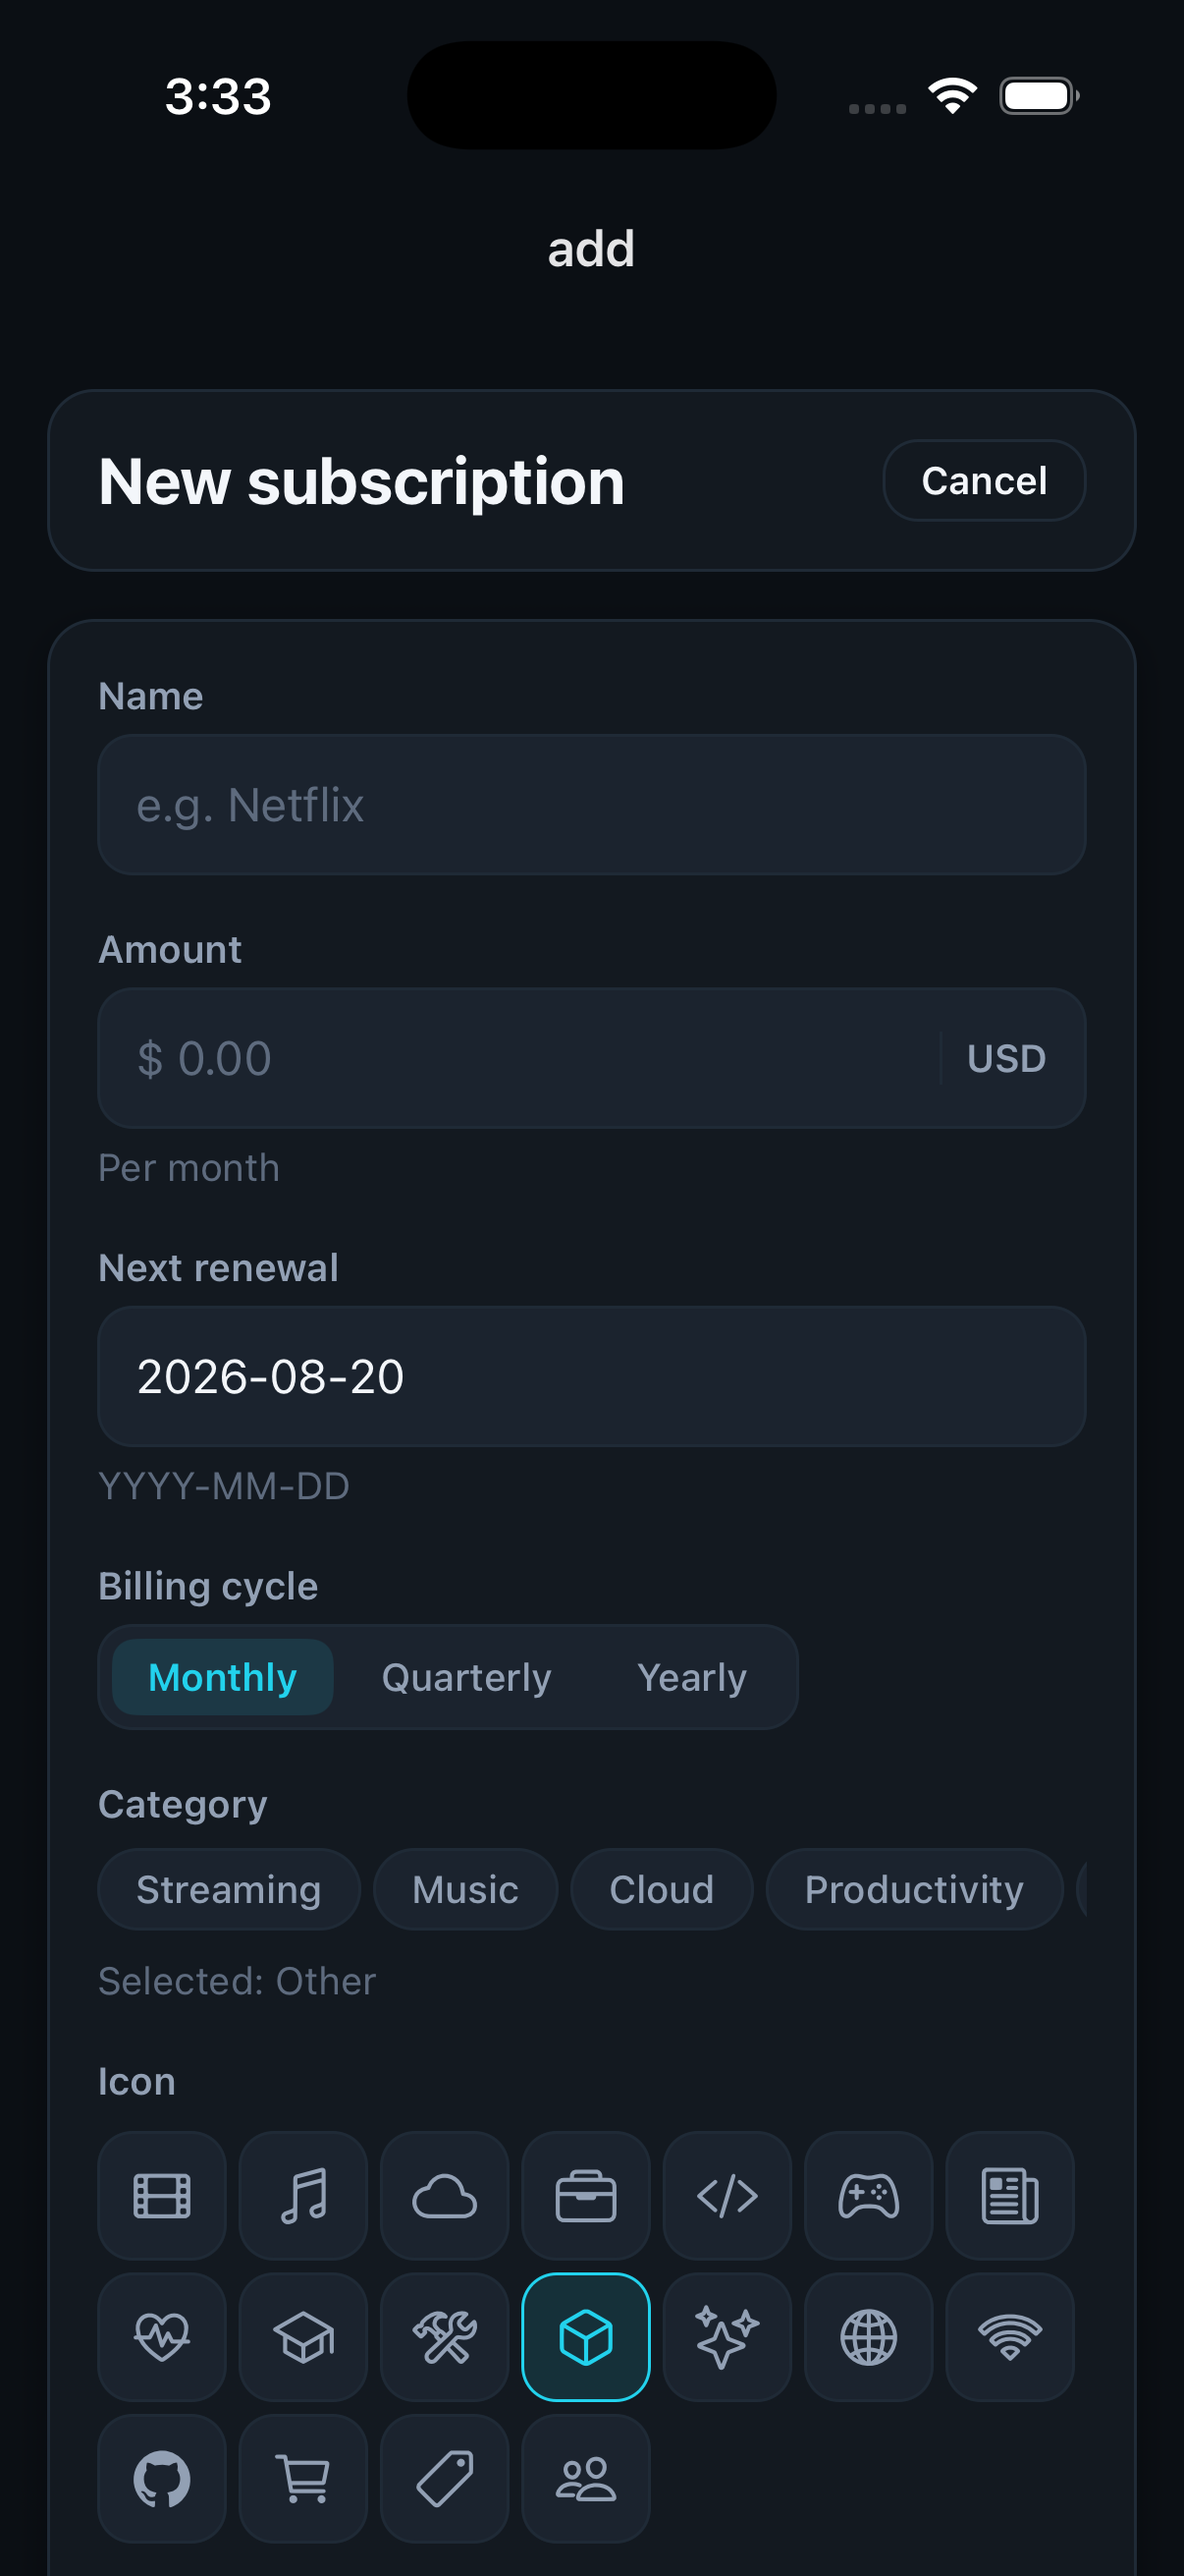
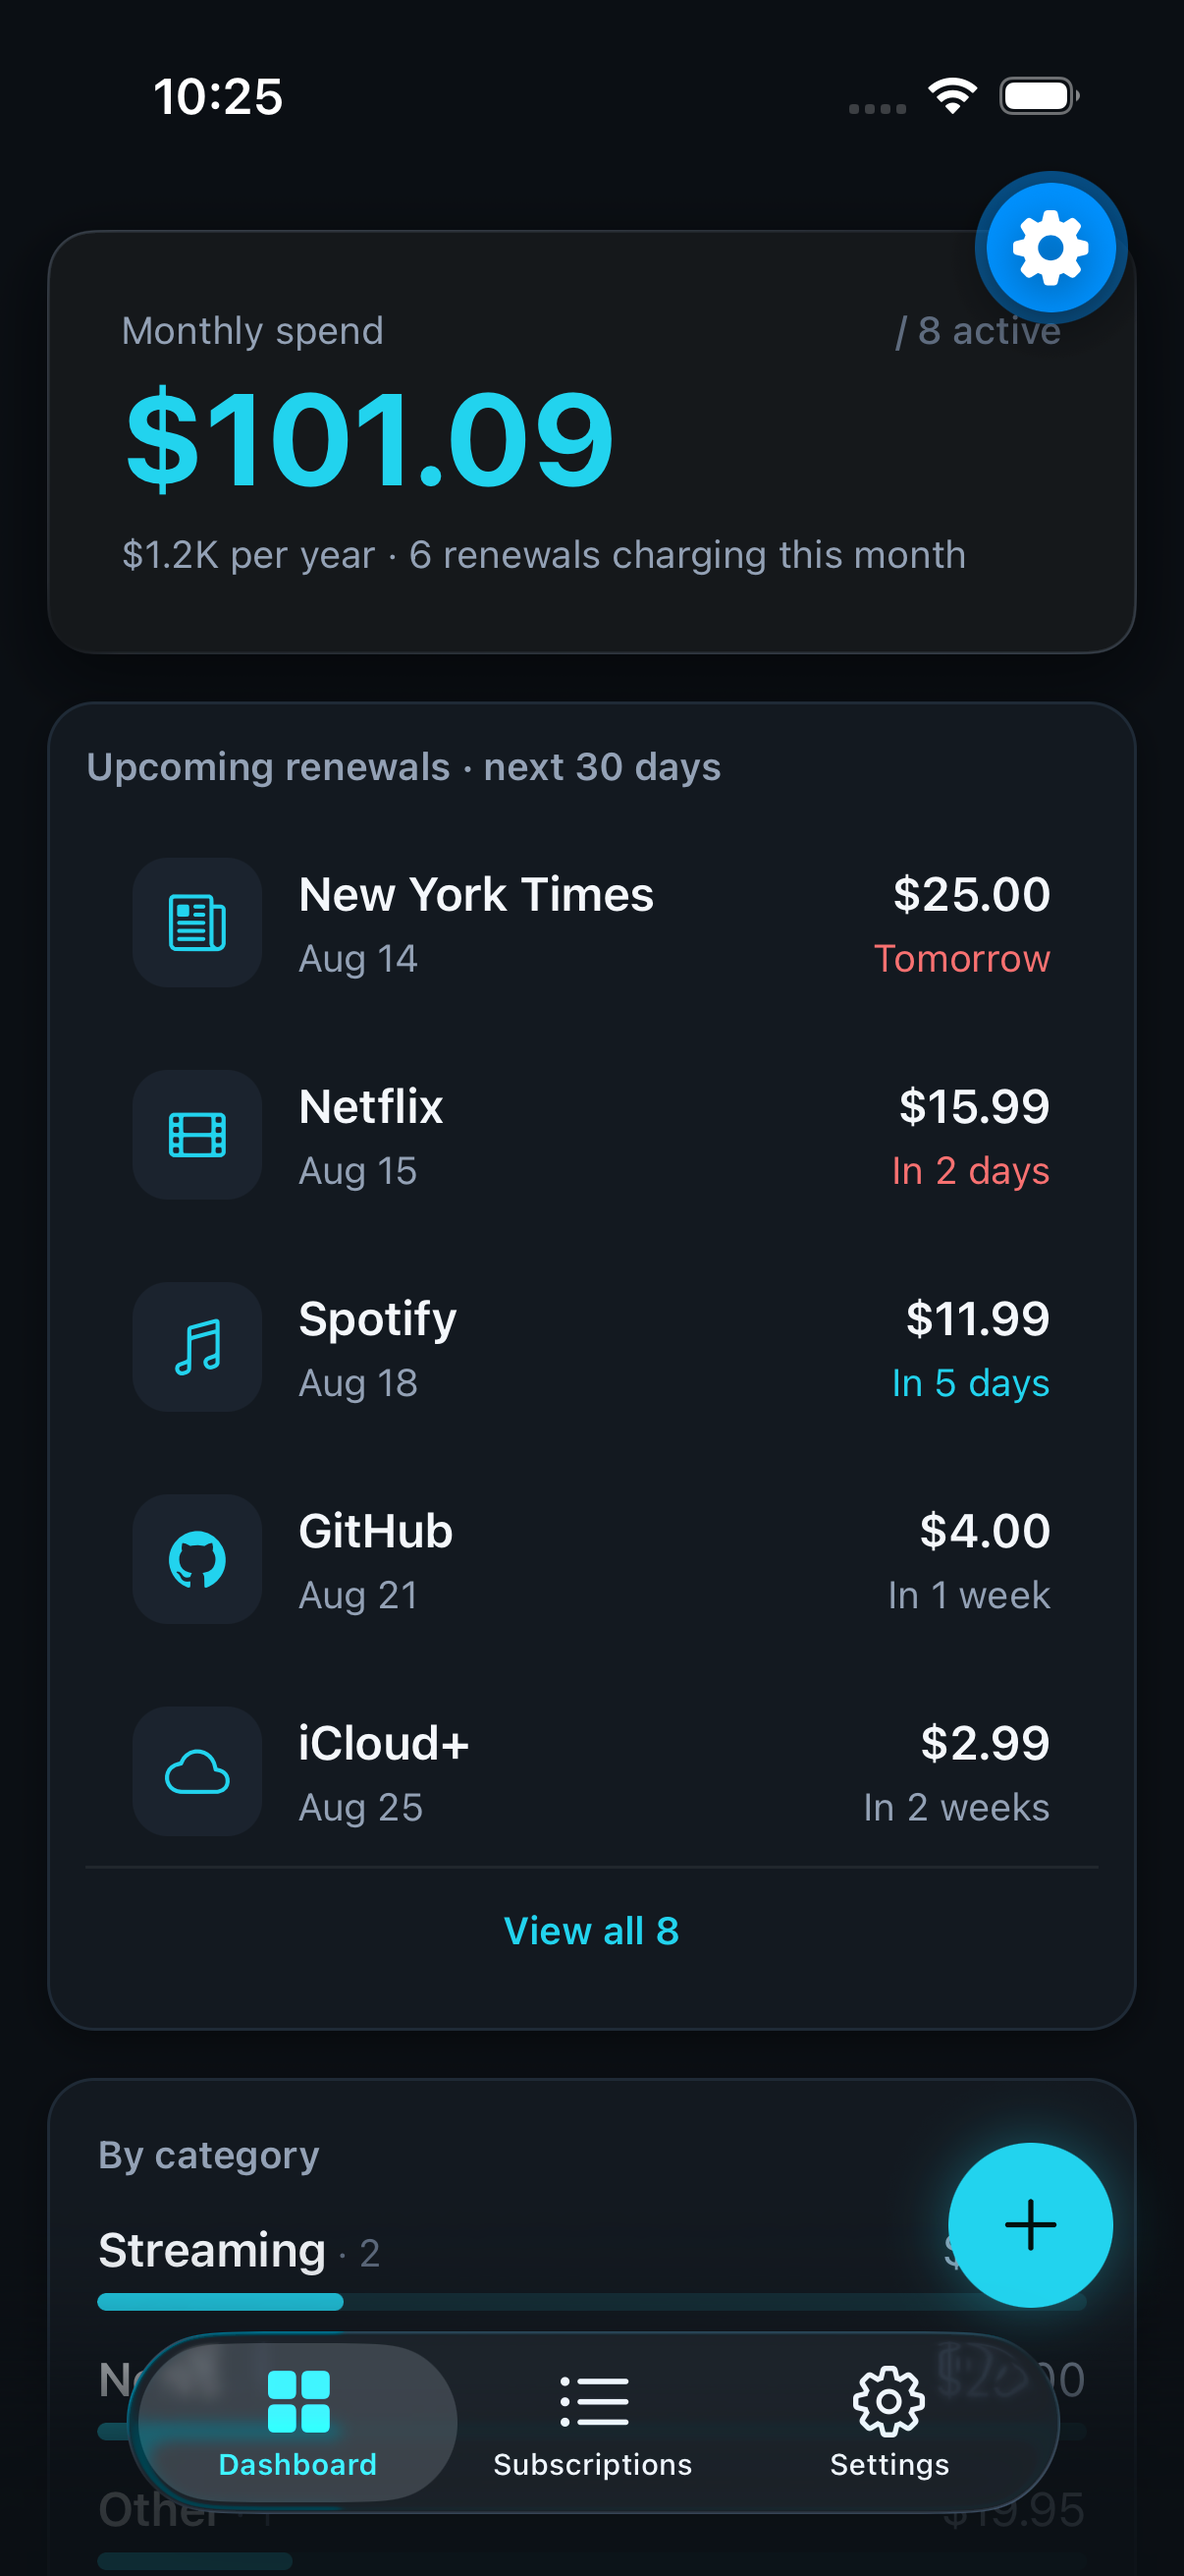
docs: refresh README screenshots and copy for the Supabase era
Regenerate the dashboard, subscriptions, and add-subscription screenshots
from the current app and add auth, settings, and detail captures. Update
stale claims (on-device SQLite only, no auth) and the tech-stack table to
reflect Supabase, offline-first sync, and the new flows.

diff --git a/README.md b/README.md
@@ -8,13 +8,16 @@ A minimalistic subscription dashboard for tracking and managing monthly recurrin
   <img src="docs/screenshots/dashboard.png" width="240" alt="Subby dashboard showing monthly spend, upcoming renewals, and quick stats" />
   <img src="docs/screenshots/subscriptions.png" width="240" alt="Subby subscriptions list showing the history of all subscriptions" />
   <img src="docs/screenshots/add-subscriptions.png" width="240" alt="Subby add subscriptions workflow" />
+  <img src="docs/screenshots/auth.png" width="240" alt="Subby sign-in screen" />
+  <img src="docs/screenshots/settings.png" width="240" alt="Subby settings with account, budget, and theme controls" />
+  <img src="docs/screenshots/detail.png" width="240" alt="Subby subscription detail with renewal countdown and effective cost" />
 </p>
 
 ---
 
 ## Overview
 
-Subby is a personal subscription tracker. Add recurring expenses (Netflix, Spotify, iCloud+, etc.), see your monthly/yearly spend at a glance, get reminded of upcoming renewals, and archive or delete subscriptions you no longer use. All data stays on-device in SQLite — no backend, no sign-in, no network calls.
+Subby is a personal subscription tracker. Add recurring expenses (Netflix, Spotify, iCloud+, etc.), see your monthly/yearly spend at a glance, get reminded of upcoming renewals, and archive or delete subscriptions you no longer use. Accounts sync across devices via Supabase; the app works offline with cached data and a write queue that replays changes on reconnect.
 
 The project was built as a portfolio piece to demonstrate modern React Native engineering: native stack + native tab navigation (not JS-based), Zustand selectors over React Context, FlashList virtualization with memoized primitive-only rows, Reanimated 4 worklet-driven animations, and a custom design token system with dark-first theming.
 
@@ -24,8 +27,9 @@ The project was built as a portfolio piece to demonstrate modern React Native en
 - **Subscriptions list** — sort by name/cost/renewal date, filter by active/archived/all, full-text search, long-press native action sheet (Edit / Archive / Delete with two-step delete confirm)
 - **Subscription detail** — hero tile with brand color, renewal countdown with tone-themed badges, effective monthly/yearly cost breakdown, edit/archive/delete actions
 - **Add/Edit modal** — form with name, amount, billing cycle, next renewal date, category chips, icon + color picker, notes; live validation with field-level errors shown after touch or submit
-- **Settings** — theme toggle (System / Light / Dark) with cross-fade transition, currency picker (6 currencies), danger zone wipe with two-step native confirm
-- **Native tab bar** — four tabs (Dashboard, Subscriptions, Add, Settings) using platform-native `UITabBarController` / Material Bottom Navigation
+- **Settings** — theme toggle (System / Light / Dark) with cross-fade transition, currency picker (6 currencies), monthly budget, renewal-reminder toggle, password change with current-password verification, account deletion, and a dev-only demo-data section
+- **Native tab bar** — three tabs (Dashboard, Subscriptions, Settings) plus a floating add button using platform-native `UITabBarController` / Material Bottom Navigation
+- **Offline-first** — reads serve a per-user cache when offline; changes made offline are queued and sync automatically on reconnect (never dropped); an offline banner shows pending-change counts with a retry action
 - **Haptics** — selection ticks on chips/segmented controls, impact feedback on row taps, warning notification before destructive actions, success chime after save/wipe
 - **Animations** — FAB-less design (Add is a tab); count-up on dashboard stats; spring entrance on empty-state; theme cross-fade via remount-keyed `Animated.View`
 
@@ -36,7 +40,9 @@ The project was built as a portfolio piece to demonstrate modern React Native en
 | Framework  | Expo SDK 57, React 19, React Native 0.86, React Compiler ON            |
 | Navigation | `expo-router` with `unstable-native-tabs` (native stack + native tabs) |
 | State      | `zustand` with selectors (no React Context for shared state)           |
-| Database   | `expo-sqlite` with typed query layer + migration runner                |
+| Database   | Supabase (Postgres, RLS per user) + SQLite for offline cache/queue     |
+| Auth       | Supabase Auth — email/password, email confirmation, OTP-code resets    |
+| Offline    | Per-user snapshot cache + FIFO write queue, flushed on reconnect       |
 | Lists      | `@shopify/flash-list` v2 (auto-sizing, no `estimatedItemSize` needed)  |
 | Images     | `expo-image` exclusively (never RN `Image`)                            |
 | Animations | `react-native-reanimated` 4 + `react-native-gesture-handler`           |
@@ -149,14 +155,14 @@ Tokens live in `src/design/tokens.ts`. Icons generated from `scripts/generate-ic
 - **Native tabs are worth the API friction.** `expo-router/unstable-native-tabs` wraps `UITabBarController` / Material Bottom Navigation directly. The prop API differs from `@react-navigation/bottom-tabs` (e.g., `labelStyle: { default, selected }` instead of `tabBarActiveTintColor`), but the payoff is real native scroll-to-top, PiP avoidance, and platform-correct safe-area insets — all free.
 - **React Compiler changes the idioms.** Manual `useMemo`/`useCallback`/`memo()` become noise in most cases. The one adjustment that matters: Reanimated shared values need `.get()`/`.set()` instead of `.value` — the compiler can't track property access on proxy objects.
 - **Route files as thin re-exports.** Keeping expo-router imports out of `features/<area>/` means screen logic is Jest-testable in plain Node — no router mock needed. The route file is a one-liner: `export { DashboardScreen as default } from '@/features/dashboard'`.
-- **SQLite + Zustand as read-through cache.** Every mutation flows through the DB query layer, then the store re-reads all rows. The store never locally patches arrays — this eliminates an entire class of stale-cache bugs at the cost of one extra query per mutation.
+- **Supabase as the source of truth with an offline queue.** Mutations run against the server when online and are enqueued in a FIFO SQLite queue when offline (queue-invisible — no temp ids or optimistic patching). The store re-reads after each mutation, keeping a single code path and eliminating stale-cache bugs at the cost of one extra query per mutation.
 
 ## What I'd Do Next
 
-- **Date picker upgrade** — swap the YYYY-MM-DD text input for `@react-native-community/datetimepicker` (the free-text input is pragmatic but error-prone on mobile keyboards)
-- **Persistent UI prefs** — migrate from in-memory `memoryStorage` to `AsyncStorage` so theme/currency/sort/filter survive across app launches (the storage adapter is already stubbed in `src/design/storage.ts`)
+- **Push notifications for renewal reminders** — reminders are currently device-local (expo-notifications); cross-device reminders need Expo Push tokens + an Edge Function
 - **Stats tab** — add a fifth tab with `victory-native-xl` charts: donut by category, monthly trend bar, top 5 most expensive (deferred during MVP scoping)
 - **Export/import** — JSON + CSV export for data portability and backup
+- **Offline write conflict resolution** — the FIFO queue replays in order (last-write-wins); explicit conflict handling would cover multi-device editing of the same row
 - **Receipt scanning** — camera + Vision framework for auto-detecting amount/renewal date from a billing email screenshot (the `NSCameraUsageDescription` Info.plist entry is already in place)
 - **EAS project wiring** — run `npx eas init`, paste the project ID into `app.json`, fill submit credentials, and ship the first TestFlight build
 
